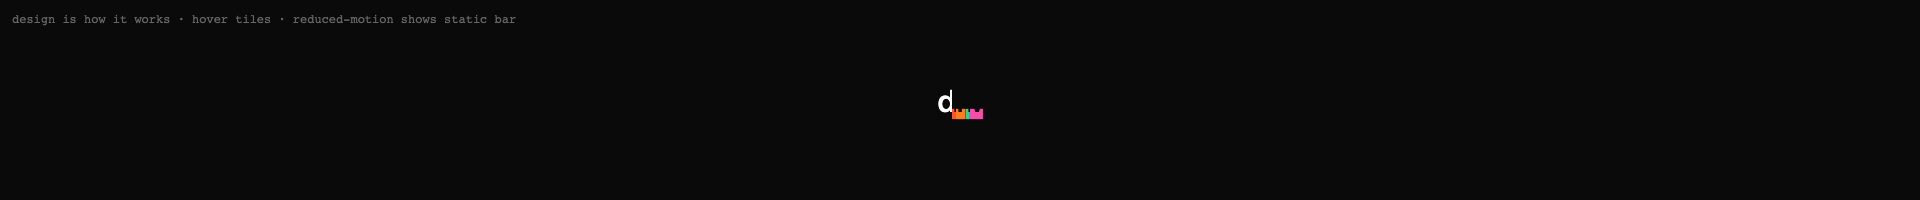
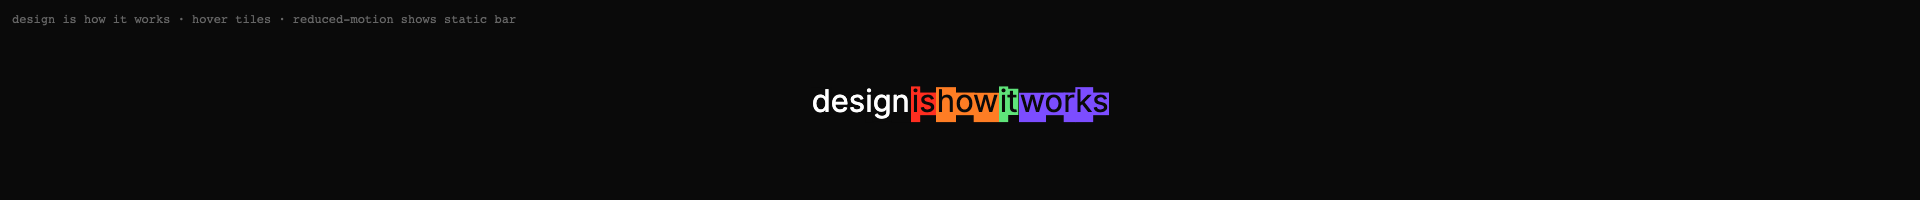
Fix: use concrete font family instead of CSS var for canvas measurement
The canvas 2D context does not resolve CSS custom properties (var()),
causing font-family to fall back to '10px sans-serif' and rendering
tiles at ~5px wide instead of proper sizes.

Also fix glyph metrics: use textBaseline='alphabetic' (matching SVG's
dominant-baseline='alphabetic') and actualBoundingBoxAscent/Descent
for per-glyph measurements instead of fontBoundingBoxAscent/Descent
(which returns the em box height, not actual glyph extent).

Changes:
- measure.ts: textBaseline='alphabetic', per-glyph actualBoundingBox metrics
- engine.ts: concrete Inter/Apple-system font stack, refreshFont fix
- public/cards-demo.html: same fixes mirrored from TS source
- assets/: updated render showing properly-sized colored tiles

Changed region(s): [[0.4062, 0.42, 0.5938, 0.63]]

diff --git a/cards-close=off/public/cards-demo.html b/cards-close=off/public/cards-demo.html
@@ -75,7 +75,7 @@
     function measureWord(word, fontFamily, fontWeight) {
       const { ctx } = getMeasureCanvas();
       ctx.font = fontWeight + " " + REF_FS + "px " + fontFamily;
-      ctx.textBaseline = "top";
+      ctx.textBaseline = "alphabetic";
       const full = ctx.measureText(word);
       const fm = full.fontBoundingBoxAscent || REF_FS * 0.7;
       const fd = full.fontBoundingBoxDescent || REF_FS * 0.3;
@@ -83,14 +83,16 @@
       let x = 0;
       for (const ch of word) {
         const gm = ctx.measureText(ch);
+        const ascent = gm.actualBoundingBoxAscent || fm;
+        const descent = gm.actualBoundingBoxDescent || fd;
         glyphs.push({
           ch,
           x,
-          y: -fm,
+          y: -ascent,
           w: gm.width,
-          h: fm + fd,
-          top: -fm,
-          bottom: fd,
+          h: ascent + descent,
+          top: -ascent,
+          bottom: descent,
         });
         x += gm.width;
       }
@@ -124,9 +126,7 @@
       });
       root.setAttribute("aria-label", WORDS.join(" "));
 
-      const fontFamily =
-        getComputedStyle(root).fontFamily ||
-        "var(--font-kyoto), sans-serif";
+      const fontFamily = "Inter, -apple-system, BlinkMacSystemFont, 'Segoe UI', sans-serif";
 
       const bar = document.createElement("div");
       Object.assign(bar.style, { display: "flex", alignItems: "center" });

diff --git a/cards-close=off/src/measure.ts b/cards-close=off/src/measure.ts
@@ -45,7 +45,7 @@ export function measureWord(
   try {
     const { ctx } = getCanvas();
     ctx.font = fontWeight + " " + REF_FS + "px " + fontFamily;
-    ctx.textBaseline = "top";
+    ctx.textBaseline = "alphabetic";
 
     const full = ctx.measureText(word);
     const fm = full.fontBoundingBoxAscent ?? REF_FS * 0.7;
@@ -56,14 +56,19 @@ export function measureWord(
     for (const ch of word) {
       const gm = ctx.measureText(ch);
       const gw = gm.width;
-      const top = -fm;
-      const bottom = fd;
+      // With textBaseline="alphabetic", y=0 is the baseline
+      // actualBoundingBoxAscent is positive (distance above baseline)
+      // actualBoundingBoxDescent is positive (distance below baseline)
+      const ascent = gm.actualBoundingBoxAscent ?? fm;
+      const descent = gm.actualBoundingBoxDescent ?? fd;
+      const top = -ascent;
+      const bottom = descent;
       glyphs.push({
         ch,
         x,
         y: top,
         w: gw,
-        h: fm + fd,
+        h: ascent + descent,
         top,
         bottom,
       });

diff --git a/cards-close=off/src/engine.ts b/cards-close=off/src/engine.ts
@@ -66,8 +66,7 @@ export class DesignTiles {
     root.setAttribute("aria-label", WORDS.join(" "));
 
     this.fontFamily =
-      getComputedStyle(root).fontFamily ||
-      "var(--font-kyoto), var(--font-neue-montreal), sans-serif";
+      "Inter, -apple-system, BlinkMacSystemFont, 'Segoe UI', Roboto, sans-serif";
 
     const bar = document.createElement("div");
     Object.assign(bar.style, { display: "flex", alignItems: "center" });
@@ -267,7 +266,8 @@ export class DesignTiles {
   }
 
   refreshFont() {
-    this.fontFamily = getComputedStyle(this.root).fontFamily || this.fontFamily;
+    this.fontFamily =
+      "Inter, -apple-system, BlinkMacSystemFont, 'Segoe UI', Roboto, sans-serif";
     for (const tile of this.tiles)
       tile.textEl.setAttribute("font-family", this.fontFamily);
     this.layout();
